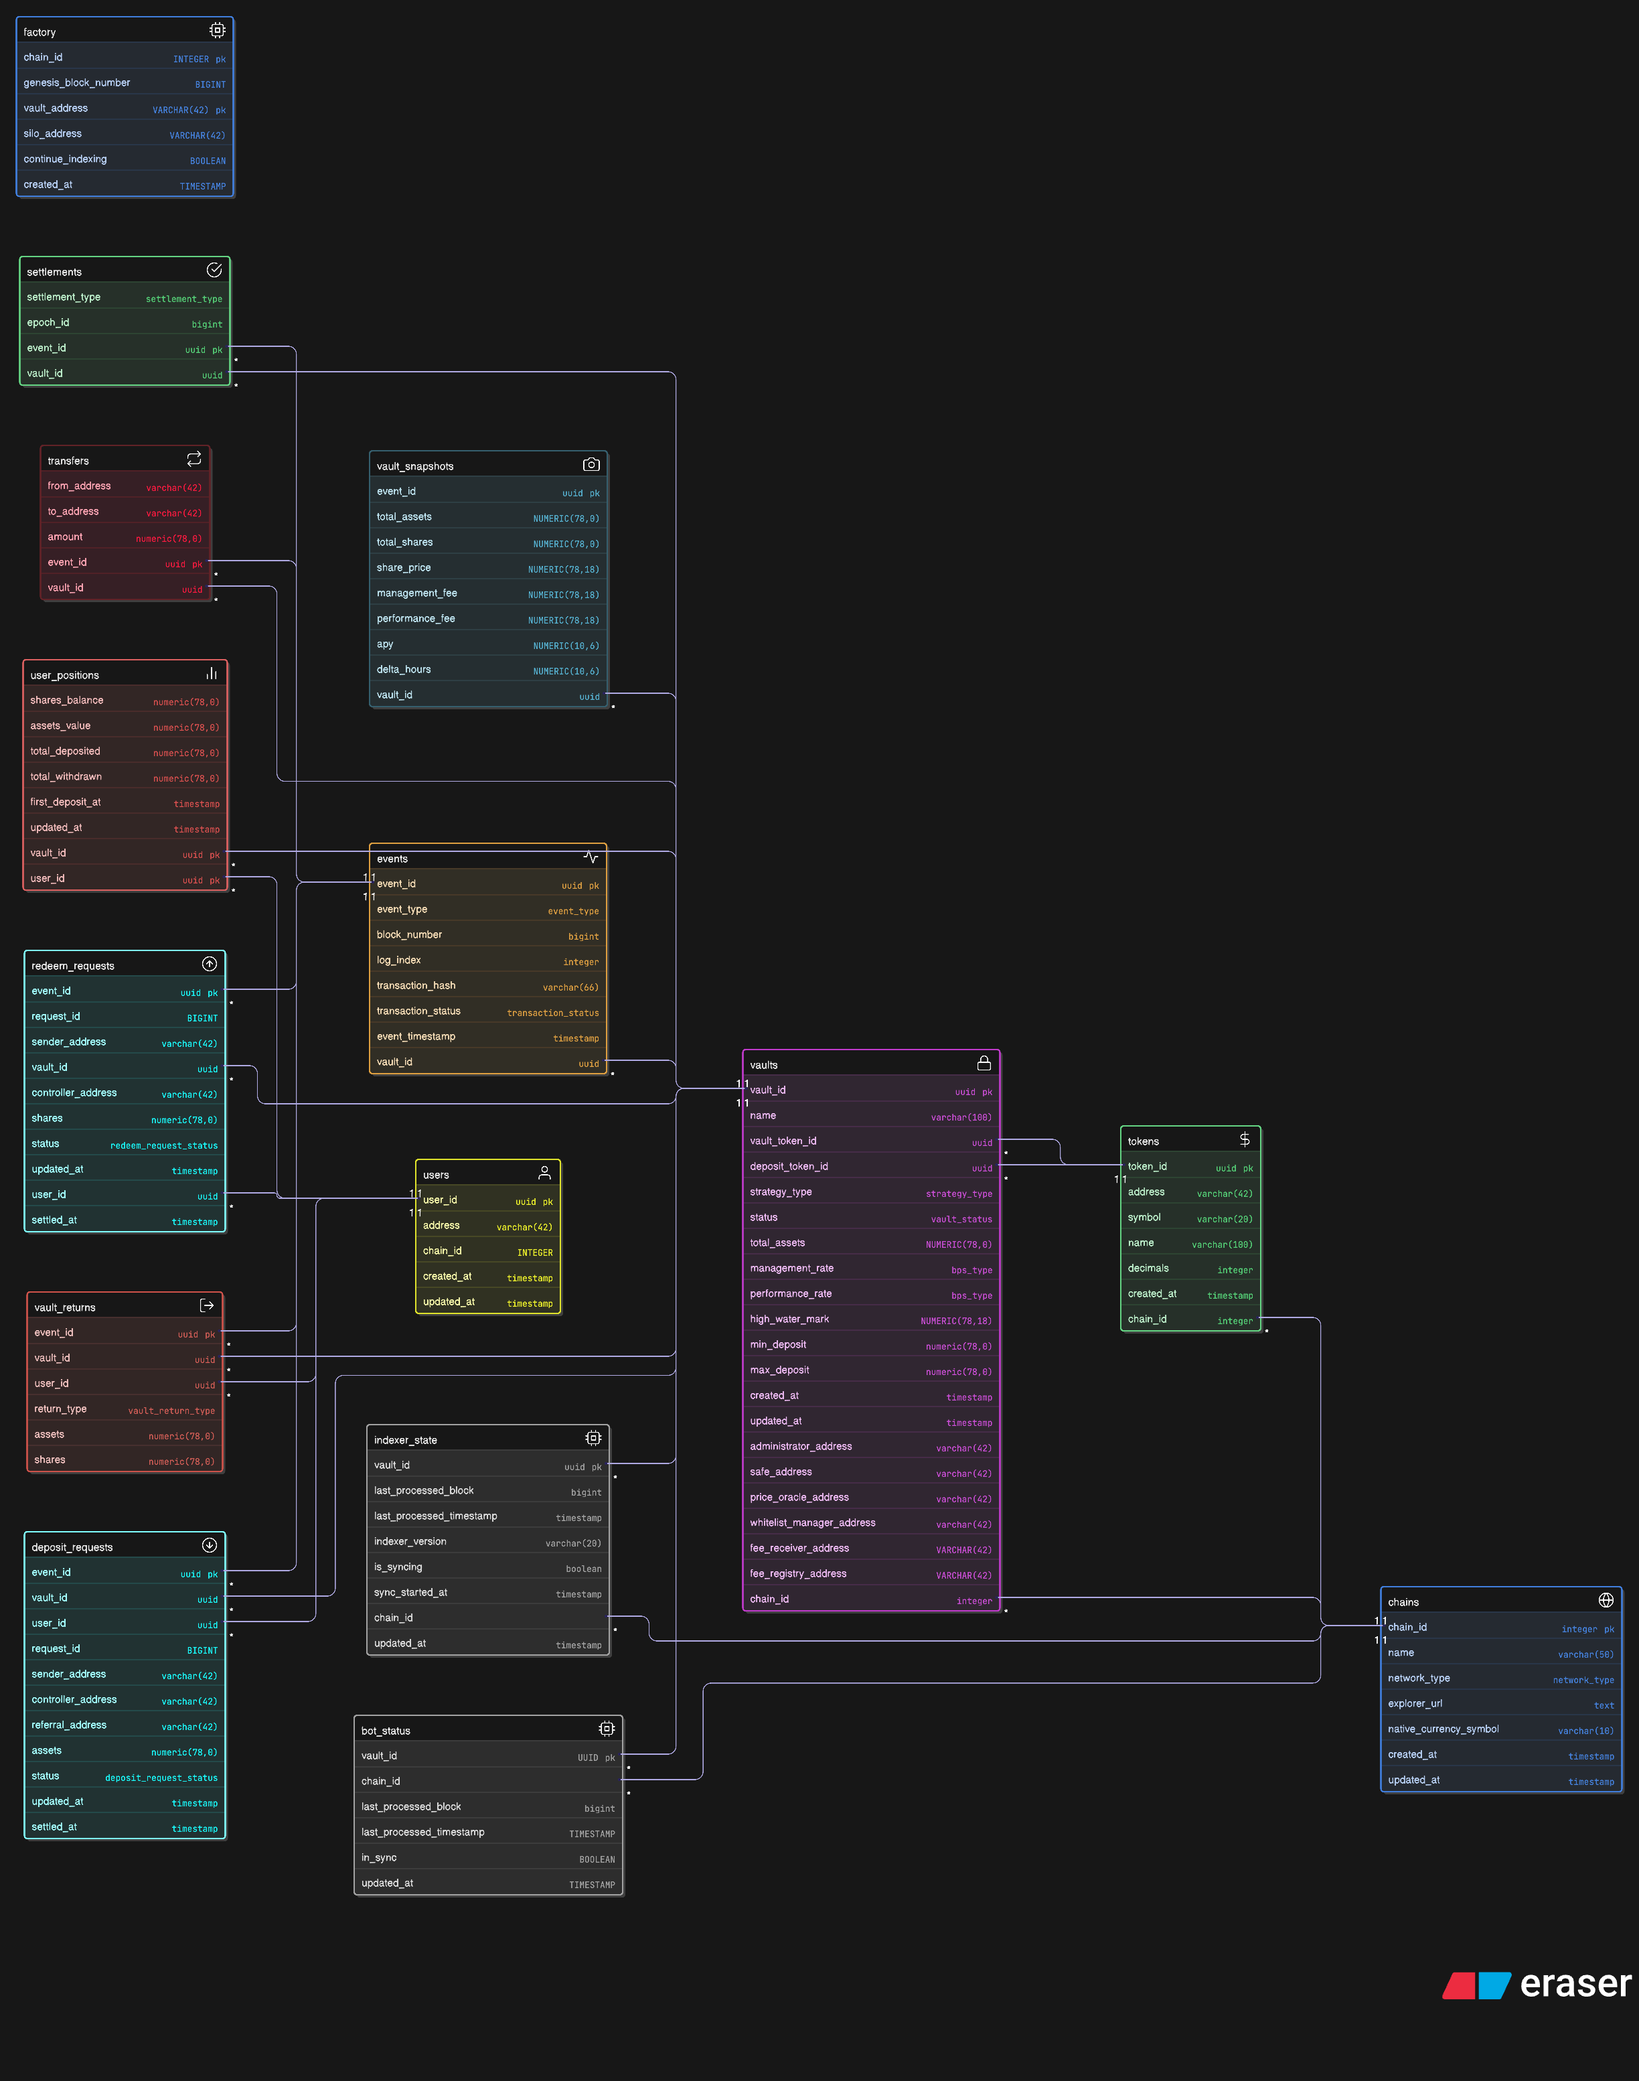
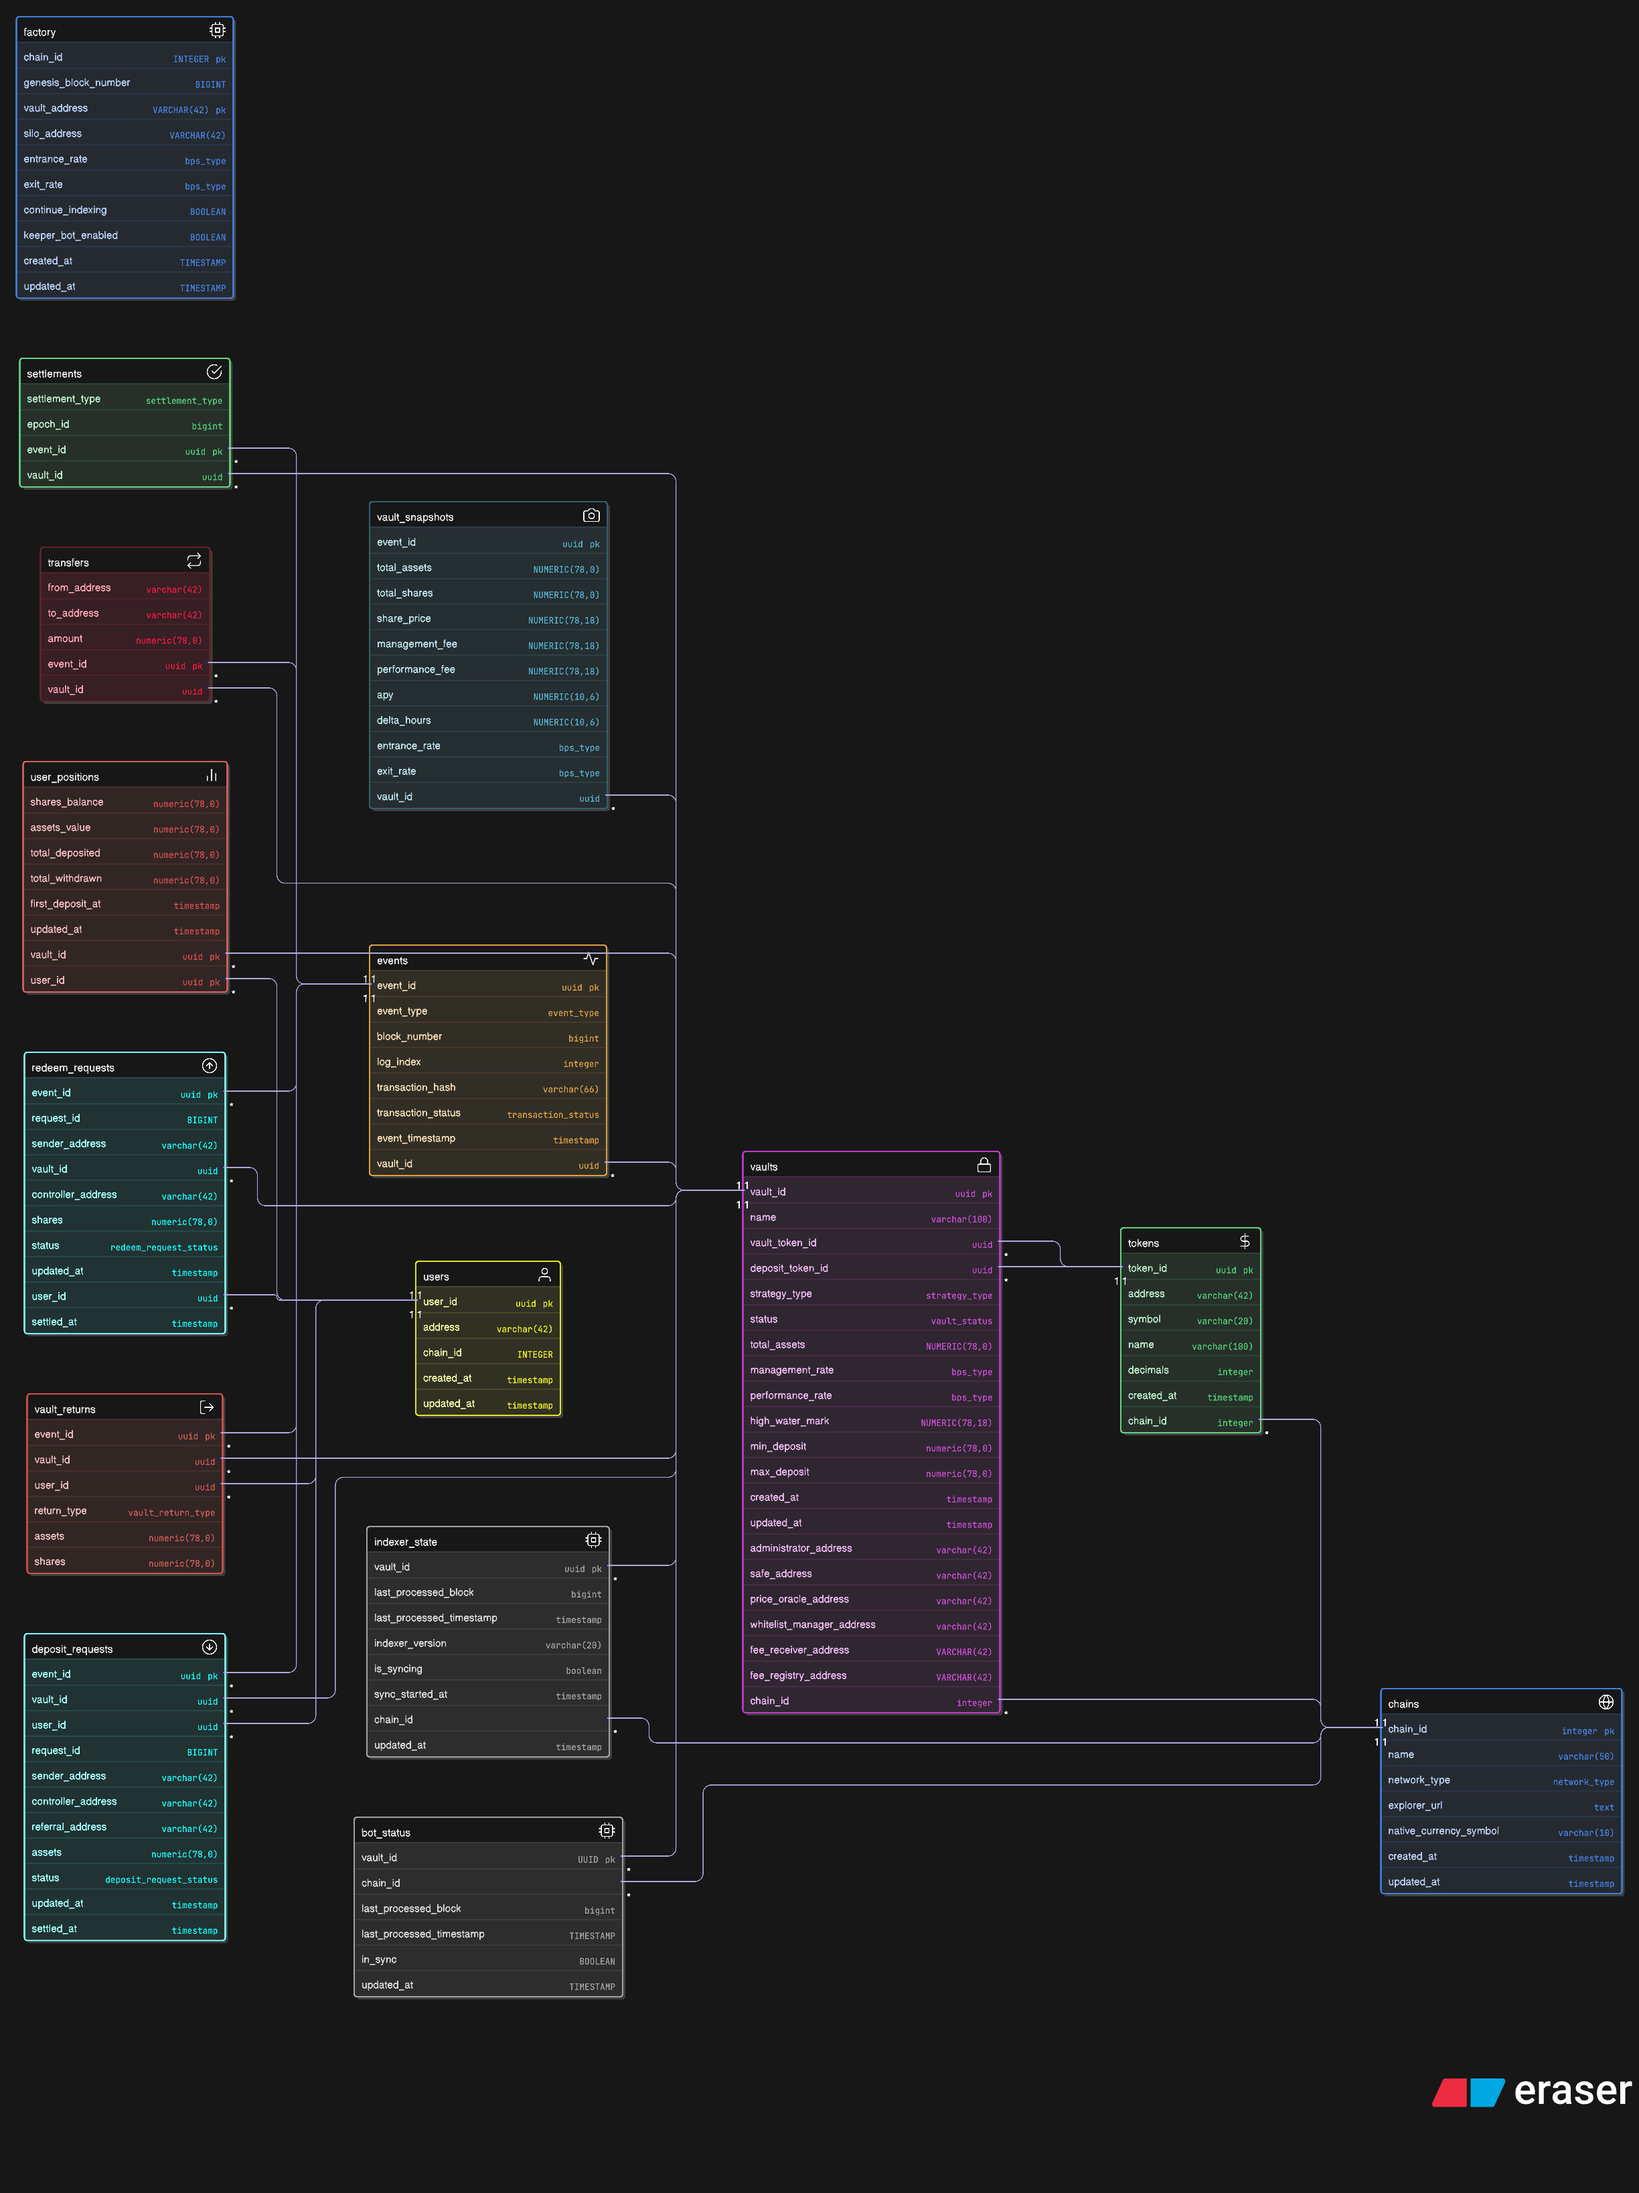
feat: add entrance/exit rates and bot activation control
- Add entrance_rate and exit_rate fields to factory and vault_snapshots tables
- Add keeper_bot_enabled field to factory table for bot activation control
- Update vault snapshot logic to fetch and store entrance/exit rates from factory
- Add bot status check in keeper transactions endpoint to respect keeper_bot_enabled flag
- Update bot keeper logic to handle paused status when bot is disabled
- Improve logging messages for better debugging

diff --git a/lagoon-indexer/db/query/lagoon_db_utils.py b/lagoon-indexer/db/query/lagoon_db_utils.py
@@ -236,7 +236,32 @@ class LagoonDbUtils:
         return result
 
     @staticmethod
-    def handle_vault_snapshot(db: Database, vault_id: str, total_assets: Decimal, total_shares: Decimal, share_price: Decimal, current_event_ts: datetime) -> Tuple[Optional[Decimal], Optional[Decimal], Optional[Decimal], Optional[Decimal]]:
+    def get_vault_fees_from_factory(db: Database, vault_id: str) -> Tuple[Optional[Decimal], Optional[Decimal]]:
+        """
+        Get the vault fees from the factory for a given vault_id.
+        """
+        query = """
+        SELECT
+            f.entrance_rate AS entrance_rate,
+            f.exit_rate AS exit_rate
+        FROM vaults v
+        JOIN tokens t ON 
+            t.token_id = v.vault_token_id 
+            AND t.chain_id = v.chain_id
+        JOIN factory f ON 
+            f.chain_id = v.chain_id 
+            AND f.vault_address = t.address
+        WHERE v.vault_id = %s
+        """
+        result = db.queryResponse(query, (vault_id,))
+
+        if result and 'entrance_rate' in result[0] and 'exit_rate' in result[0]:
+            return result[0]['entrance_rate'], result[0]['exit_rate']
+        else:
+            return None, None
+    
+    @staticmethod
+    def handle_vault_snapshot(db: Database, vault_id: str, total_assets: Decimal, total_shares: Decimal, share_price: Decimal, current_event_ts: datetime) -> Tuple[Optional[Decimal], Optional[Decimal], Optional[Decimal], Optional[Decimal], Optional[Decimal], Optional[Decimal]]:
         """
         Handle the vault snapshot for a given vault_id.
         """
@@ -264,4 +289,7 @@ class LagoonDbUtils:
             share_price,
             current_event_ts
         )
-        return delta_hours, apy, management_fee, performance_fee
+
+        entrance_rate, exit_rate = LagoonDbUtils.get_vault_fees_from_factory(db, vault_id)
+
+        return delta_hours, apy, management_fee, performance_fee, entrance_rate, exit_rate

diff --git a/lagoon-indexer/db/query/endpoints/lagoon_keeper_txs.py b/lagoon-indexer/db/query/endpoints/lagoon_keeper_txs.py
@@ -83,6 +83,14 @@ def get_keepers_pending_txs_metadata(chain_id: int = 480) -> Dict[str, Any]:
         LIMIT 1
     """
 
+    bot_enabled_query = """
+        SELECT keeper_bot_enabled
+        FROM factory
+        WHERE vault_address = %s
+        AND chain_id = %s
+        LIMIT 1
+    """
+
     vaults_txs = []
 
     vaults_df = db.frameResponse(vaults_query, (chain_id,))
@@ -97,6 +105,16 @@ def get_keepers_pending_txs_metadata(chain_id: int = 480) -> Dict[str, Any]:
             "valuationManager": row.price_oracle_address,
             "underlying_token_address": row.underlying_token_address,
         }
+
+        keeper_bot_enabled_df = db.frameResponse(bot_enabled_query, (vault["vault_address"], chain_id))
+        if keeper_bot_enabled_df.empty or not keeper_bot_enabled_df.iloc[0].keeper_bot_enabled:
+            vaults_txs.append({
+                "status": "paused",
+                "message": f"Keeper bot is not enabled for vault {vault['vault_address']}",
+                "vault": vault,
+                "vault_txs": {}
+            })
+            continue
 
         indexer_state_df = db.frameResponse(indexer_state_query, (vault_id,))
         if indexer_state_df.empty:
@@ -143,8 +161,6 @@ def get_keepers_pending_txs_metadata(chain_id: int = 480) -> Dict[str, Any]:
         redeem_df = db.frameResponse(redeem_query, (chain_id, vault_id))
         settled_deposit_df = db.frameResponse(settled_deposit_query, (chain_id, vault_id))
 
-        if deposit_df.empty and redeem_df.empty and settled_deposit_df.empty:
-            continue
         vault_txs = {
             "initialUpdate": initial_update_df.empty,
             "pendingDeposit": not deposit_df.empty,

diff --git a/lagoon-indexer/lagoon_indexer.py b/lagoon-indexer/lagoon_indexer.py
@@ -82,7 +82,7 @@ class EventFormatter:
         total_shares = Decimal(event['args']['totalSupply'])
         share_price = Decimal(total_assets / total_shares) if total_shares > 0 else Decimal(0)
         current_event_ts = LagoonDbDateUtils.get_datetime_from_str(event_data['event_timestamp'])
-        delta_hours, apy, management_fee, performance_fee = LagoonDbUtils.handle_vault_snapshot(
+        delta_hours, apy, management_fee, performance_fee, entrance_rate, exit_rate = LagoonDbUtils.handle_vault_snapshot(
             db, 
             vault_id, 
             total_assets, 
@@ -99,7 +99,9 @@ class EventFormatter:
             'management_fee': management_fee,
             'performance_fee': performance_fee,
             'apy': apy,
-            'delta_hours': delta_hours
+            'delta_hours': delta_hours,
+            'entrance_rate': entrance_rate,
+            'exit_rate': exit_rate
         }
         return event_data, settle_data, snapshot_data
 

diff --git a/bot/safe_tx_utils.py b/bot/safe_tx_utils.py
@@ -65,6 +65,7 @@ def keeper_txs_handler(chain_id, pending):
     }]
     """
     try:
+        print(f"Keeper bot called for chain {chain_id}")
         for instance in pending:
             vault_address = instance["vault"]["vault_address"]
             status = instance["status"]
@@ -72,6 +73,10 @@ def keeper_txs_handler(chain_id, pending):
 
             if status == "syncing":
                 print(f"[{vault_address}] Indexer syncing: {message}")
+                continue
+
+            if status == "paused":
+                print(f"[{vault_address}] Keeper bot is not enabled: {message}")
                 continue
 
             if status == "error":

diff --git a/lagoon-indexer/db/query/endpoints/lagoon_vault_snapshots.py b/lagoon-indexer/db/query/endpoints/lagoon_vault_snapshots.py
@@ -19,7 +19,17 @@ def get_vault_snapshots_data_query(offset: int = 0, limit: int = 20, interval: s
 
     return f"""
         SELECT 
-            t.*,
+            t.event_id,
+            t.vault_id,
+            t.total_assets,
+            t.total_shares,
+            t.share_price,
+            t.management_fee,
+            t.performance_fee,
+            t.apy,
+            t.delta_hours,
+            (t.entrance_rate::numeric / 10000) AS entrance_rate,
+            (t.exit_rate::numeric / 10000) AS exit_rate,
             v.chain_id,
             v.name as vault_name,
             t2.symbol as vault_token_symbol,

diff --git a/bot/keeper.py b/bot/keeper.py
@@ -18,7 +18,7 @@ def run_bot(chain_id, api_url):
         pending = fetch_keeper_txs(api_url, chain_id)
         vaults_txs = pending.get("vaults_txs", [])
         if len(vaults_txs) == 0:
-            print("No pending transactions found")
+            print(f"No vaults found for chain {chain_id}")
             return
 
         keeper_txs_handler(chain_id, vaults_txs)
